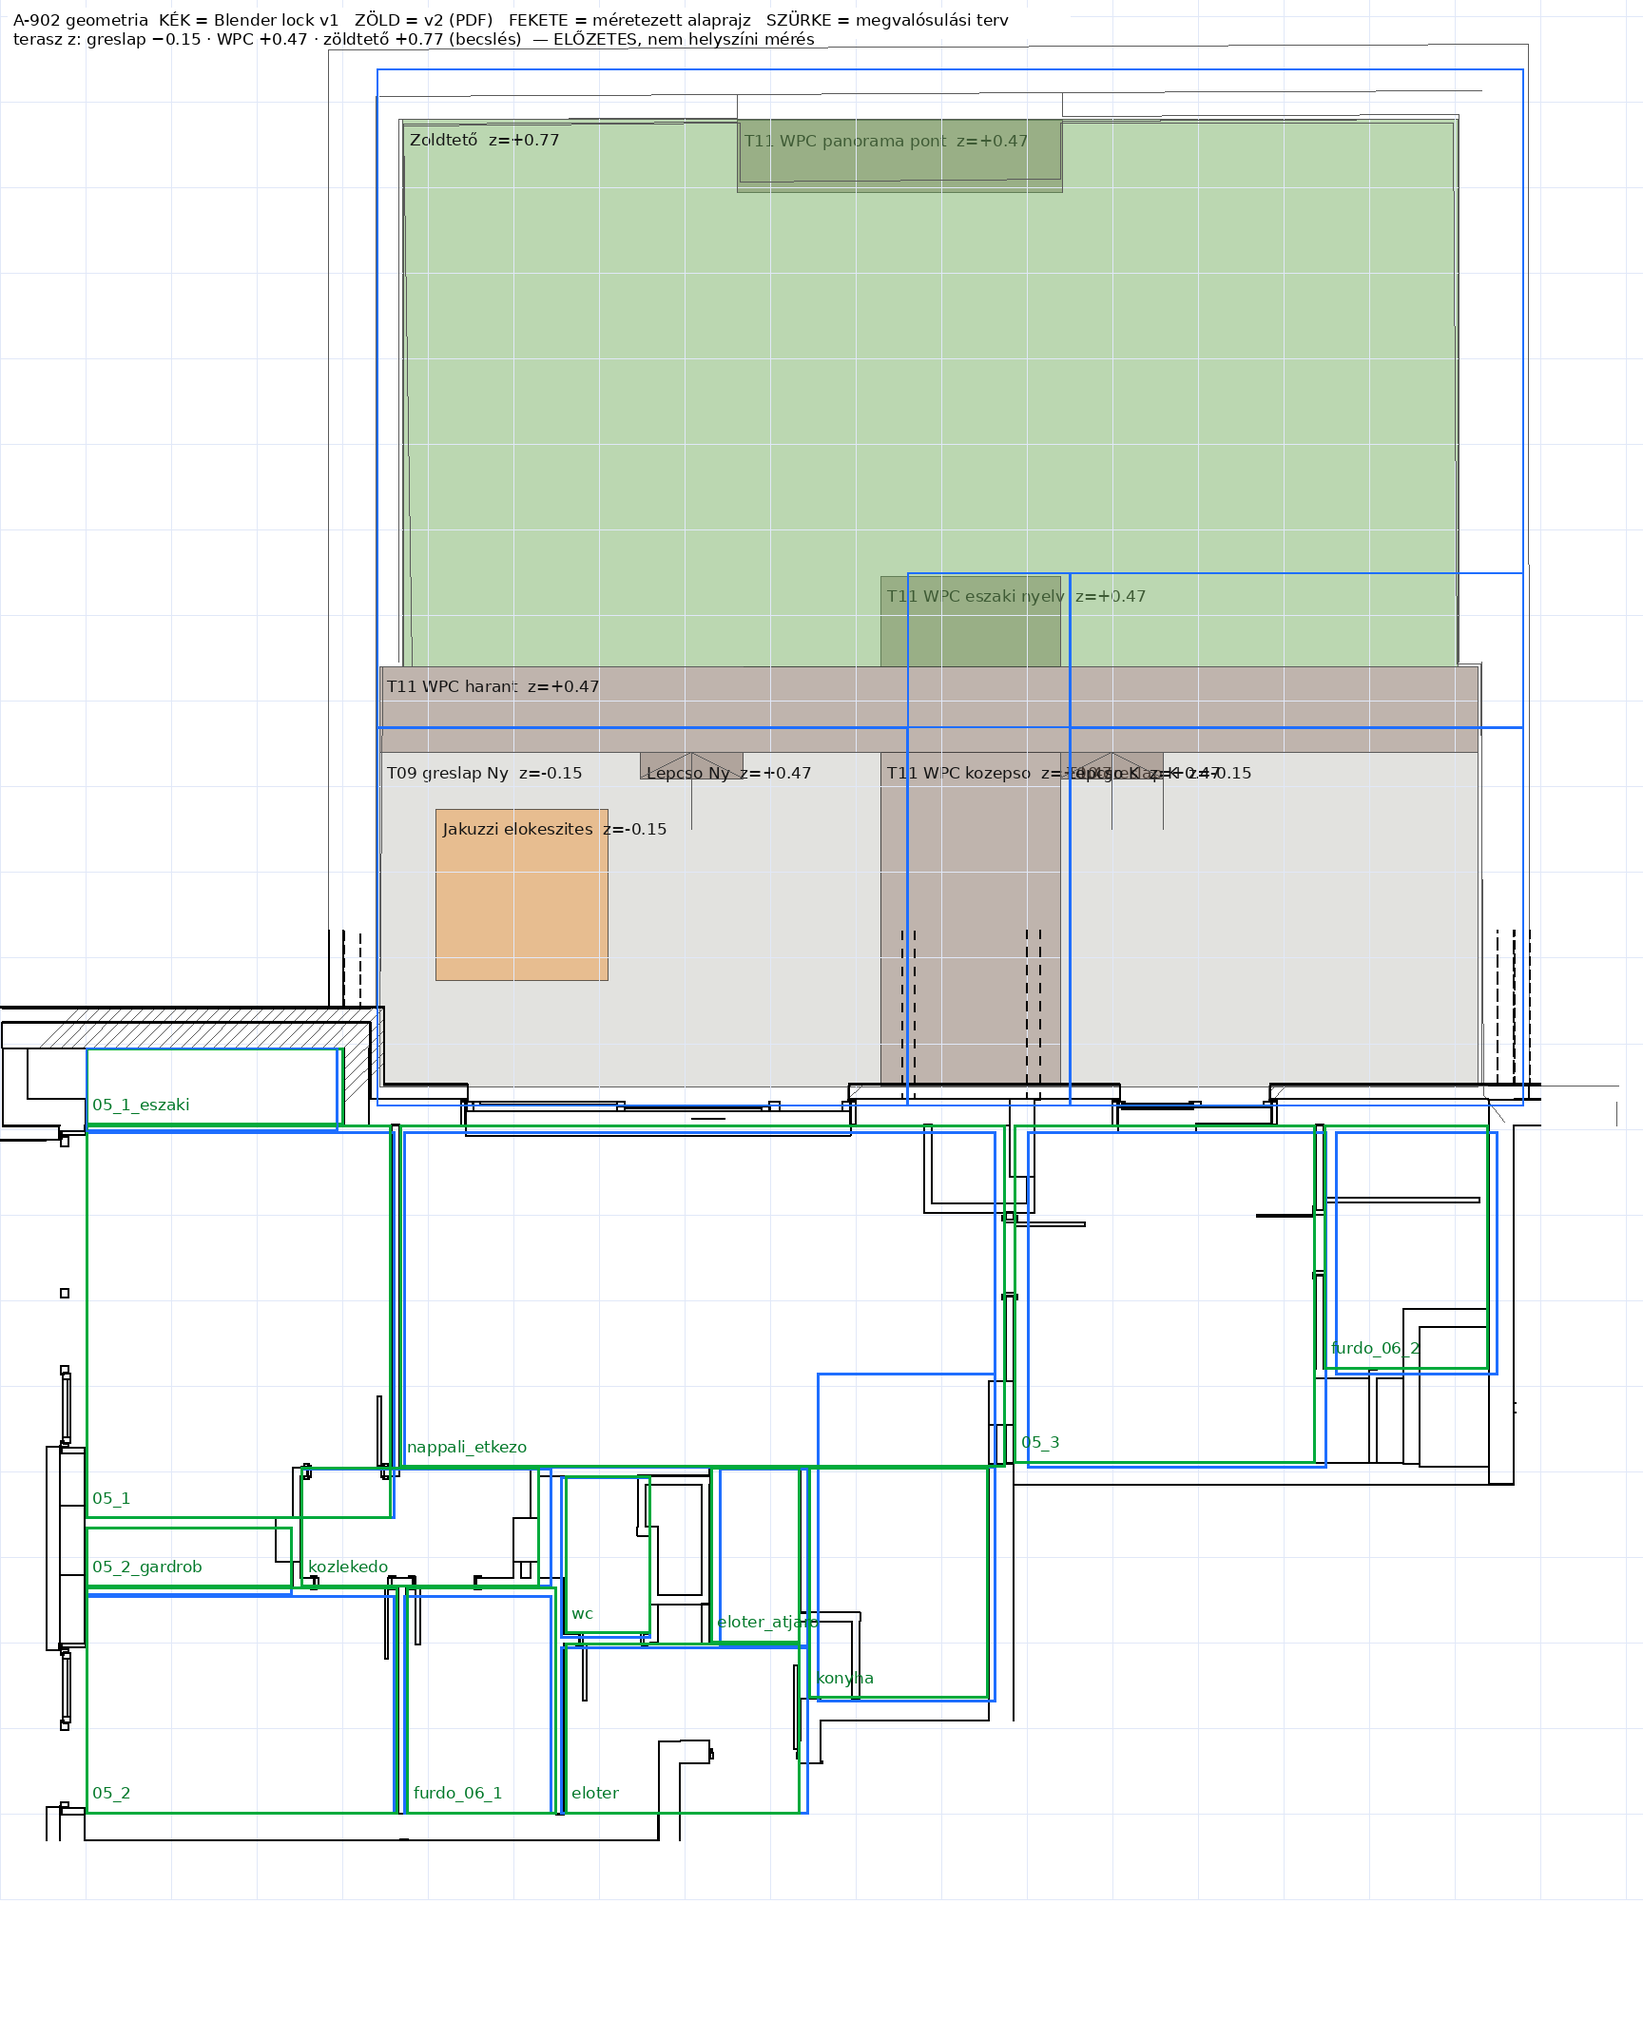
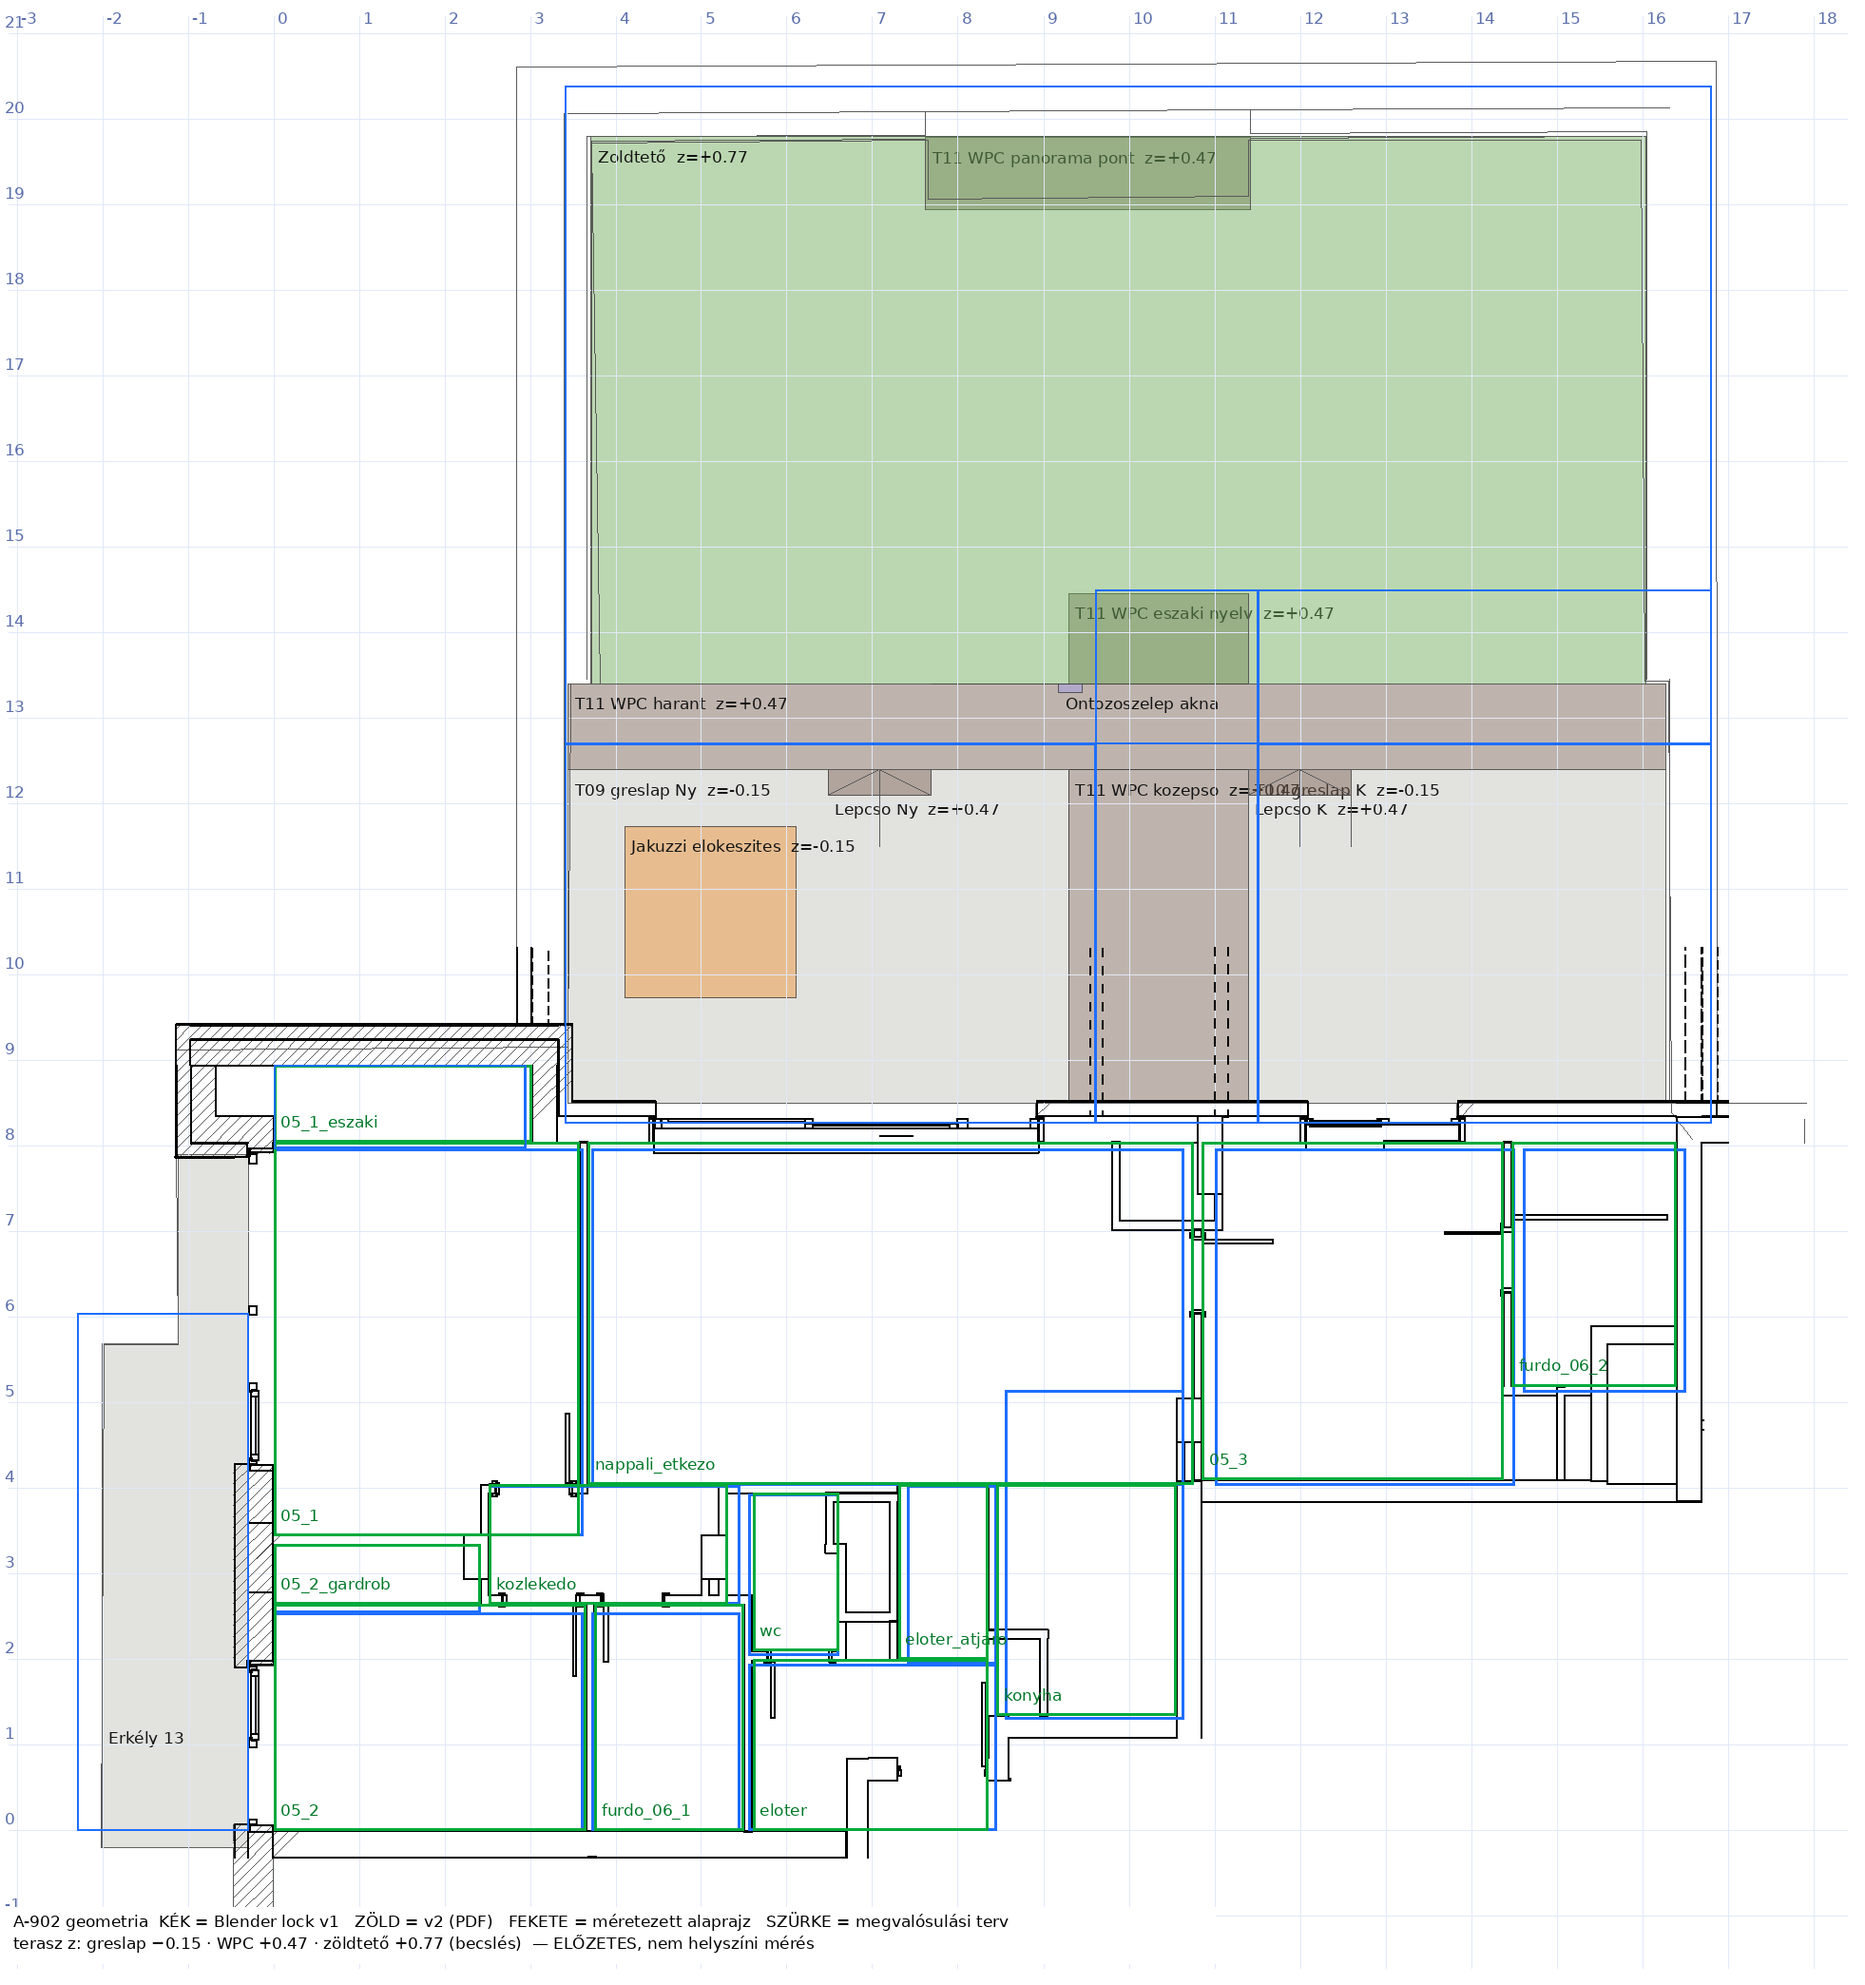
A-902 overlay: teljes alaprajz (Ny-i erkély is), erkély L-alak a v2-ben és az eltéréslistában
Claude-Session: https://claude.ai/code/session_0156xHw3F1ZajSgE9Ss79xVQ

Changed region(s): [[0.0, 0.0, 0.9375, 0.9962]]

diff --git a/03_blender/geometry_v2/render_overlay_v2.py b/03_blender/geometry_v2/render_overlay_v2.py
@@ -6,30 +6,32 @@ v2=json.load(open('A902_geometria_v2_ELOZETES.json')); v1=json.load(open('../geo
 S18=json.load(open(G+'pdf_segs_blendercoords.json')); A=json.load(open(G+'p3_align.json')); P3=json.load(open(G+'p3_segs_pt.json'))
 try: F=ImageFont.truetype('/usr/share/fonts/truetype/dejavu/DejaVuSans.ttf',22); Fs=ImageFont.truetype('/usr/share/fonts/truetype/dejavu/DejaVuSans.ttf',17)
 except: F=Fs=None
-S=90; ox,oy=1.0,21.2; W,H=int(19.2*S),int(23.6*S)
+S=90; ox,oy=3.2,21.4; W,H=int(21.8*S),int(23.2*S)
 im=Image.new('RGB',(W,H),'white'); dr=ImageDraw.Draw(im,'RGBA'); P=lambda x,y:((x+ox)*S,(oy-y)*S)
 col={-0.15:(205,205,200,150),0.47:(120,95,80,120),0.77:(110,170,90,120)}
 for k,t in v2['terrace'].items():
+    if 'poly' in t:
+        dr.polygon([P(x,y) for x,y in t['poly']],fill=(205,205,200,150),outline=(60,60,60,200)); dr.text(P(t['poly'][1][0]+0.08,1.2),'Erkély 13',fill=(20,20,20),font=Fs)
     if 'box' in t:
         x0,y0,x1,y1=t['box']; z=t.get('z',t.get('z_to'))
         c=(240,120,0,90) if 'Jakuzzi' in k else col.get(z,(150,150,250,90))
         dr.rectangle([P(x0,y1),P(x1,y0)],fill=c,outline=(60,60,60,200))
-        dr.text(P(x0+0.08,y1-0.12),k.replace('_',' ')+(f"  z={z:+.2f}" if z is not None else ''),fill=(20,20,20),font=Fs)
-for i in range(-1,19): dr.line([P(i,-1),P(i,21.2)],fill=(225,232,248,255))
-for j in range(-1,22): dr.line([P(-1,j),P(18.2,j)],fill=(225,232,248,255))
+        dr.text(P(x0+0.08,(y0-0.05) if k.startswith('Lepcso') else (y1-0.12)),k.replace('_',' ')+(f"  z={z:+.2f}" if z is not None else ''),fill=(20,20,20),font=Fs)
+for i in range(-3,19): dr.line([P(i,-1.6),P(i,21.2)],fill=(225,232,248,255)); dr.text(P(i+0.04,21.3),str(i),fill=(90,110,170),font=Fs)
+for j in range(-1,22): dr.line([P(-3.1,j),P(18.4,j)],fill=(225,232,248,255)); dr.text(P(-3.15,j+0.25),str(j),fill=(90,110,170),font=Fs)
 M3=A['M3']
 for x1,y1,x2,y2,w,c in P3:
     a=(x1/M3+A['dx'],-y1/M3+A['dy']); b=(x2/M3+A['dx'],-y2/M3+A['dy'])
-    if -1<a[0]<18.2 and 8.3<a[1]<21.2: dr.line([P(*a),P(*b)],fill=(90,90,90),width=1)
+    if -3.2<a[0]<18.4 and -1.6<a[1]<21.2 and (a[1]>8.3 or a[0]<0.05): dr.line([P(*a),P(*b)],fill=(90,90,90),width=1)
 for a,b,w in S18:
     if w==0.71: dr.line([P(*a),P(*b)],fill=(0,0,0),width=2)
 for k,(x0,y0,x1,y1) in v1['rooms'].items(): dr.rectangle([P(x0,y1),P(x1,y0)],outline=(30,110,255),width=3)
 for k,(x0,y0,x1,y1) in v2['rooms'].items():
     dr.rectangle([P(x0,y1),P(x1,y0)],outline=(0,170,60),width=3); dr.text(P(x0+0.08,y0+0.35),k,fill=(0,120,40),font=Fs)
 for k,(x0,y0,z0,x1,y1,z1) in v1['floors'].items():
-    if y1>8.3 or y0>8.3:
+    if y1>8.3 or y0>8.3 or x0<-0.2:
         x0,x1=sorted((x0,x1)); y0,y1=sorted((y0,y1)); dr.rectangle([P(x0,y1),P(x1,y0)],outline=(30,110,255),width=2)
-dr.rectangle([P(-0.9,21.1),P(11.5,20.75)],fill='white')
-dr.text(P(-0.85,21.08),"A-902 geometria  KÉK = Blender lock v1   ZÖLD = v2 (PDF)   FEKETE = méretezett alaprajz   SZÜRKE = megvalósulási terv",fill=(0,0,0),font=Fs)
-dr.text(P(-0.85,20.85),"terasz z: greslap −0.15 · WPC +0.47 · zöldtető +0.77 (becslés)  — ELŐZETES, nem helyszíni mérés",fill=(0,0,0),font=Fs)
+dr.rectangle([P(-3.1,-0.9),P(11.0,-1.55)],fill='white')
+dr.text(P(-3.05,-0.95),"A-902 geometria  KÉK = Blender lock v1   ZÖLD = v2 (PDF)   FEKETE = méretezett alaprajz   SZÜRKE = megvalósulási terv",fill=(0,0,0),font=Fs)
+dr.text(P(-3.05,-1.2),"terasz z: greslap −0.15 · WPC +0.47 · zöldtető +0.77 (becslés)  — ELŐZETES, nem helyszíni mérés",fill=(0,0,0),font=Fs)
 im.save('A902_v1_vs_v2_overlay.png'); print(im.size)

diff --git a/03_blender/geometry_v2/build_geometry_v2.py b/03_blender/geometry_v2/build_geometry_v2.py
@@ -47,7 +47,7 @@ terrace = {  # x0,y0,x1,y1, z (belső kész padlóhoz képest), anyag, forrás, 
  "Jakuzzi_elokeszites": dict(box=[4.10,9.74,6.10,11.74], z=-0.15, note="2.00 m széles szaggatott keret a 18. oldalon (É-i éle a rajz szélén kívül → mélység HIÁNYZIK, 2.00 feltételezve); áramkiállás (3.82, 9.69); fagymentes kültéri csap (4.14, 9.0). Terhelhetőség: HIÁNYZIK (statikus nyilatkozat)", src=SRC18),
  "Korlat":           dict(vonal={"Ny":3.39,"K":16.32,"É":20.11}, magassag=1.10, anyag="antracit fém, függőleges pálcás, mellvéden (videó)", status="nyomvonal DOKUMENTUM, magasság ELŐZETES", src=SRC3),
  "Mellved_kulso":    dict(vonal={"Ny":2.83,"K":16.86,"É":20.61}, src=SRC3),
- "Erkely_13":        dict(m2_terv=11.26, anyag="greslap", note="Ny-i oldal, 05.1/05.2 előtt; nincs a videóban", src=SRC3),
+ "Erkely_13":        dict(poly=[[-0.30,-0.20],[-2.01,-0.20],[-2.01,5.69],[-1.12,5.69],[-1.12,7.90],[-0.30,7.90]], m2_terv=11.26, anyag="greslap", note="Ny-i oldal, 05.1/05.2 előtt, L-alak (külső kontúr a megvalósulási terv vonalaiból; a v1 lock téglalapja [-2.3,0,-0.3,6.05] volt); nincs a videóban – ELŐZETES", src=SRC3),
  "Homlokzat":        dict(anyag="világos szürke/fehér foltos klinker tégla, fekete nyílászárók, felette sötét álló fémburkolat (videó)", status="VIDEÓ"),
  "Ajtok_terasz":     dict(note="4.50 × 2.53 tolóajtós üvegfal (nappali) és 1.80 × 2.53 (05.3); fellépés 15 cm, 2025-10-13-i korrekció szerint módosult → helyszínen mérendő", src=SRC18),
 }

diff --git a/03_blender/geometry_v2/A902_eltereslista_v1_v2.md b/03_blender/geometry_v2/A902_eltereslista_v1_v2.md
@@ -44,6 +44,8 @@ A konyha É-i −110 cm-e definíciós különbség: a v1 a konyhazónát a napp
 | Lepcso_K |  | [11.39, 12.1, 12.59, 12.4] | -0.15→0.47 | DOKUMENTUM (nyíl) + VIDEÓ |
 | Jakuzzi_elokeszites |  | [4.1, 9.74, 6.1, 11.74] | -0.15 |  |
 
+**Erkély 13 (Ny, 11,26 m²):** a v1-ben téglalap volt [−2,30, 0,00, −0,30, 6,05]. A terv szerint **L-alakú**: −2,01…−0,30 × −0,20…5,69, és egy keskeny nyúlvány −1,12…−0,30 × 5,69…7,90, végig a 05.1 előtt. A v1 tehát 30 cm-rel szélesebb volt, és hiányzott belőle az északi nyúlvány. ELŐZETES.
+
 **Zöldtető tagolása (ELŐZETES, videó + Péter):** sík fű Ny [3.71,13.41,7.62,19.80], dombos évelőágyás [7.62,14.58,12.00,18.83] (+0,25 m), sík fű K [12.00,13.41,16.04,19.80]; betonszegély kb. térdmagas; pop-up esőztető a füvön, csepegtető az ágyásban.
 
 ## 4. Tények (IGAZOLT / ELŐZETES / HIÁNYZIK)
